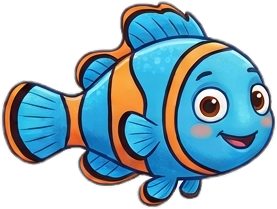
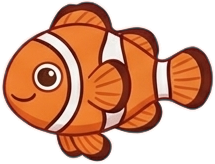
Add files via upload

diff --git a/monitor.html b/monitor.html
@@ -129,16 +129,21 @@ const Fish = (() => {
   const c = document.getElementById('bg'), x = c.getContext('2d'); let W, H; const F = [], B = []; const seen = new Set();
   // 종류별 설정: 이미지, 가로세로비, 번호 위치(비율), 원래 바라보는 방향, 움직임, 활동 수심(화면 비율), 크기
   const SP = {
-    clown:    { src: 'clown.png',    ar: 209 / 277, belly: { x: .5, y: .72 },  faces: 1,  mode: 'swim',  zone: [.08, .85], w: [110, 150], p: 15, name: '물고기' },
-    blue:     { src: 'blue.png',     ar: 192 / 240, belly: { x: .5, y: .72 },  faces: 1,  mode: 'swim',  zone: [.08, .85], w: [105, 145], p: 15, name: '파랑물고기' },
-    turtle:   { src: 'turtle.png',   ar: 243 / 281, belly: { x: .4, y: .5 },   faces: 1,  mode: 'swim',  zone: [.1, .8],   w: [130, 170], p: 11, name: '바다거북' },
-    ray:      { src: 'ray.png',      ar: 307 / 309, belly: { x: .46, y: .52 }, faces: 1,  mode: 'swim',  zone: [.15, .8],  w: [150, 200], p: 9,  name: '가오리', slow: .6 },
-    jelly:    { src: 'jelly.png',    ar: 308 / 189, belly: { x: .5, y: .5 },   faces: 0,  mode: 'drift', zone: [.06, .5],  w: [80, 110],  p: 10, name: '해파리' },
-    seahorse: { src: 'seahorse.png', ar: 283 / 147, belly: { x: .52, y: .5 },  faces: -1, mode: 'hover', zone: [.55, .82], w: [65, 90],   p: 9,  name: '해마' },
-    octopus:  { src: 'octopus.png',  ar: 266 / 237, belly: { x: .5, y: .22 },  faces: 0,  mode: 'walk',  zone: [1, 1],     w: [120, 150], p: 8,  name: '문어' },
-    crab:     { src: 'crab.png',     ar: 224 / 276, belly: { x: .5, y: .68 },  faces: 0,  mode: 'walk',  zone: [1, 1],     w: [110, 140], p: 8,  name: '꽃게' },
-    star:     { src: 'star.png',     ar: 231 / 239, belly: { x: .5, y: .7 },   faces: 0,  mode: 'walk',  zone: [1, 1],     w: [90, 120],  p: 7,  name: '불가사리', slow: .3 },
-    puffer:   { src: 'puffer.png',   ar: 198 / 244, belly: { x: .5, y: .72 },  faces: -1, mode: 'swim',  zone: [.1, .8],   w: [100, 130], p: 8,  name: '복어', slow: .5, puff: true },
+    clown:    { src: 'clown.png',    ar: 164 / 215, belly: { x: .5, y: .66 },  faces: -1, mode: 'swim',  zone: [.08, .85], w: [105, 145], p: 13, name: '흰동가리' },
+    blue:     { src: 'blue.png',     ar: 163 / 238, belly: { x: .48, y: .66 }, faces: -1, mode: 'swim',  zone: [.08, .85], w: [110, 150], p: 11, name: '파랑물고기' },
+    tang:     { src: 'tang.png',     ar: 173 / 217, belly: { x: .52, y: .62 }, faces: -1, mode: 'swim',  zone: [.08, .85], w: [105, 145], p: 10, name: '노랑파랑 열대어' },
+    purple:   { src: 'purple.png',   ar: 166 / 232, belly: { x: .48, y: .64 }, faces: -1, mode: 'swim',  zone: [.08, .85], w: [110, 150], p: 9,  name: '보라 열대어' },
+    turtle:   { src: 'turtle.png',   ar: 231 / 284, belly: { x: .42, y: .45 }, faces: 1,  mode: 'swim',  zone: [.1, .8],   w: [130, 170], p: 8,  name: '바다거북', slow: .8 },
+    jelly:    { src: 'jelly.png',    ar: 219 / 167, belly: { x: .5, y: .48 },  faces: 0,  mode: 'drift', zone: [.06, .5],  w: [85, 115],  p: 8,  name: '해파리' },
+    ray:      { src: 'ray.png',      ar: 186 / 254, belly: { x: .5, y: .55 },  faces: -1, mode: 'swim',  zone: [.15, .8],  w: [150, 200], p: 7,  name: '가오리', slow: .6 },
+    squid:    { src: 'squid.png',    ar: 267 / 211, belly: { x: .5, y: .3 },   faces: 0,  mode: 'hover', zone: [.15, .75], w: [90, 120],  p: 6,  name: '오징어', dash: true },
+    seahorse: { src: 'seahorse.png', ar: 231 / 128, belly: { x: .5, y: .5 },   faces: -1, mode: 'hover', zone: [.55, .82], w: [60, 85],   p: 6,  name: '해마' },
+    shrimp:   { src: 'shrimp.png',   ar: 158 / 214, belly: { x: .55, y: .6 },  faces: -1, mode: 'hover', zone: [.6, .85],  w: [95, 125],  p: 6,  name: '새우', jerk: true },
+    octopus:  { src: 'octopus.png',  ar: 226 / 298, belly: { x: .5, y: .25 },  faces: 0,  mode: 'walk',  zone: [1, 1],     w: [130, 160], p: 5,  name: '문어' },
+    crab:     { src: 'crab.png',     ar: 220 / 256, belly: { x: .5, y: .68 },  faces: 0,  mode: 'walk',  zone: [1, 1],     w: [115, 145], p: 5,  name: '꽃게' },
+    star:     { src: 'star.png',     ar: 187 / 190, belly: { x: .5, y: .7 },   faces: 0,  mode: 'walk',  zone: [1, 1],     w: [90, 120],  p: 4,  name: '불가사리', slow: .3 },
+    shark:    { src: 'shark.png',    ar: 188 / 286, belly: { x: .5, y: .6 },   faces: -1, mode: 'swim',  zone: [.15, .75], w: [240, 280], p: 1,  name: '상어', slow: .55, scary: true },
+    sunfish:  { src: 'sunfish.png',  ar: 272 / 204, belly: { x: .5, y: .58 },  faces: -1, mode: 'drift', zone: [.2, .7],   w: [150, 180], p: 1,  name: '개복치', slow: .5 },
   };
   const HUES = [0, -22, 22];                                                                 // 색 변형 3종, 미리 렌더링해서 재사용
   for (const k in SP) { const s = SP[k]; s.img = new Image(); s.img.src = s.src; s.v = [];
@@ -185,11 +190,17 @@ const Fish = (() => {
     for (const b of B) { b.y -= b.v; b.x += Math.sin(b.a += .02) * .3; if (b.y < -5) { b.y = H + 5; b.x = Math.random() * W; }
       x.beginPath(); x.arc(b.x, b.y, b.r, 0, 7); x.strokeStyle = 'rgba(200,240,255,.45)'; x.lineWidth = 1.2; x.stroke(); x.beginPath(); x.arc(b.x - b.r * .3, b.y - b.r * .3, b.r * .3, 0, 7); x.fillStyle = 'rgba(255,255,255,.5)'; x.fill(); }
     const zs = zones(); const mouseOn = now - M.t < 2500;        // 마우스가 멈춘 지 2.5초 지나면 무시
+    const sharks = F.filter(f => SP[f.k].scary && !f.dying);
     // 바닥 생물이 앞에 오도록 정렬
-    F.sort((a, b) => (SP[a.k].mode === 'walk') - (SP[b.k].mode === 'walk') || (!!a.born) - (!!b.born));
+    F.sort((a, b) => (SP[a.k].mode === 'walk') - (SP[b.k].mode === 'walk') || (!!a.born) - (!!b.born) || (SP[b.k].scary ? 1 : 0) - (SP[a.k].scary ? 1 : 0));
     for (const f of F) {
       const s = SP[f.k]; f.ph += .035;
       if (f.born && now - f.born < 1100) { f.x = W * .5; f.y = H * .46; }
+      if (!s.scary && !f.born) for (const sh of sharks) {                 // 상어가 가까이 오면 달아남
+        const dx = f.x - sh.x, dy = f.y - sh.y, d2 = dx * dx + dy * dy, R = 260;
+        if (d2 < R * R) { const d = Math.sqrt(d2) || 1, k = (1 - d / R) * .7;
+          if (s.mode === 'walk') f.vx += (dx / d) * k * 1.2; else { f.vx += (dx / d) * k; if (s.mode === 'swim') f.vy += (dy / d) * k; else f.ty += (dy / d) * k * 5; } f.tvx = 0; }
+      }
       if (mouseOn && !f.born) {                                            // 마우스 가까이 오면 놀라서 달아남
         const dx = f.x - M.x, dy = f.y - M.y, d2 = dx * dx + dy * dy, R = 220;
         if (d2 < R * R) { const d = Math.sqrt(d2) || 1, k = (1 - d / R) * .9;
@@ -206,8 +217,11 @@ const Fish = (() => {
         f.x += f.vx * .6; f.y = f.ty + Math.sin(f.ph * .9) * 28; if (Math.random() < .002) f.tvx = -Math.sign(f.vx) * f.spd;
         f.ty += (Math.random() - .5) * .3; f.ty = Math.max(H * s.zone[0], Math.min(H * s.zone[1], f.ty));
         if (inZone(f.x, f.ty)) f.ty -= .8;
-      } else if (s.mode === 'hover') {                        // 해마: 낮은 곳에서 살랑살랑
-        f.x += f.vx * .5; f.ty = Math.max(H * s.zone[0], Math.min(H * s.zone[1], f.ty)); f.y = f.ty + Math.sin(f.ph * 1.3) * 10; if (Math.random() < .003) f.tvx = -Math.sign(f.vx) * f.spd;
+      } else if (s.mode === 'hover') {                        // 해마·오징어·새우: 제자리 살랑 + 느린 이동
+        if (s.dash && !f.dashT && Math.random() < .004) f.dashT = 40;                          // 오징어: 가끔 위로 쏘듯
+        if (f.dashT) { f.ty -= f.dashT * .25; f.dashT--; } else if (s.dash) f.ty += .4;
+        if (s.jerk) { f.x += Math.max(0, Math.sin(f.ph * 2.2)) * f.vx * 3; }                   // 새우: 톡톡 튀듯 전진
+        f.x += f.vx * .5; f.ty = Math.max(H * s.zone[0], Math.min(H * s.zone[1], f.ty)); f.y = f.ty + Math.sin(f.ph * (s.jerk ? 2.2 : 1.3)) * 10; if (Math.random() < .003) f.tvx = -Math.sign(f.vx) * f.spd;
       } else {                                                 // 문어·꽃게: 바닥을 기어다님
         f.x += f.vx; f.y = f.ty + Math.abs(Math.sin(f.ph * (f.k === 'crab' ? 4 : 1.2))) * (f.k === 'crab' ? 3 : 6);
         if (Math.random() < .006) f.tvx = -Math.sign(f.vx) * f.spd;

diff --git a/checkin.html b/checkin.html
@@ -92,12 +92,13 @@ const form = $('form'), done = $('done'), msg = $('msg'), btn = $('btn');
 function store(k, v){ try{ v==null ? localStorage.removeItem(k) : localStorage.setItem(k, v) }catch(e){} }
 function load(k){ try{ return localStorage.getItem(k) }catch(e){ return null } }
 
-const SPECIES = [['clown', 15, '물고기'], ['blue', 15, '파랑물고기'], ['turtle', 11, '바다거북'], ['ray', 9, '가오리'], ['jelly', 10, '해파리'], ['seahorse', 9, '해마'], ['octopus', 8, '문어'], ['crab', 8, '꽃게'], ['star', 7, '불가사리'], ['puffer', 8, '복어']];
+const SPECIES = [['clown', 13, '흰동가리'], ['blue', 11, '파랑물고기'], ['tang', 10, '노랑파랑 열대어'], ['purple', 9, '보라 열대어'], ['turtle', 8, '바다거북'], ['jelly', 8, '해파리'], ['ray', 7, '가오리'], ['squid', 6, '오징어'], ['seahorse', 6, '해마'], ['shrimp', 6, '새우'], ['octopus', 5, '문어'], ['crab', 5, '꽃게'], ['star', 4, '불가사리'], ['shark', 1, '상어'], ['sunfish', 1, '개복치']];
 const hash = n => { let h = n ^ 0x9e3779b9; h = Math.imul(h ^ (h >>> 16), 0x85ebca6b); h = Math.imul(h ^ (h >>> 13), 0xc2b2ae35); return (h ^ (h >>> 16)) >>> 0; };
 function buddyOf(id){ let r = hash(id) % 100; for (const [k, p, n] of SPECIES) { r -= p; if (r < 0) return [k, n]; } return SPECIES[0]; }
 function showBuddy(id){
   if (!id) return; const [k, n] = buddyOf(id);
-  $('buddy').innerHTML = `<img src="${k}.png" alt="${n}"><small>출석 현황 화면에서 <b>${n}</b>로 헤엄치고 있어요</small>`; $('buddy').style.display = 'block';
+  const rare = k === 'shark' || k === 'sunfish';
+  $('buddy').innerHTML = `<img src="${k}.png" alt="${n}"><small>출석 현황 화면에서 <b>${n}</b>로 헤엄치고 있어요${rare ? '<br><b>🎉 100명 중 1명만 받는 레어 캐릭터!</b>' : ''}</small>`; $('buddy').style.display = 'block';
 }
 function showDone(name, when){
   form.style.display = 'none';
